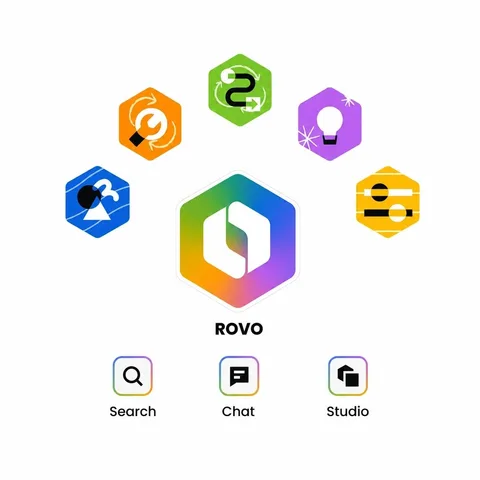
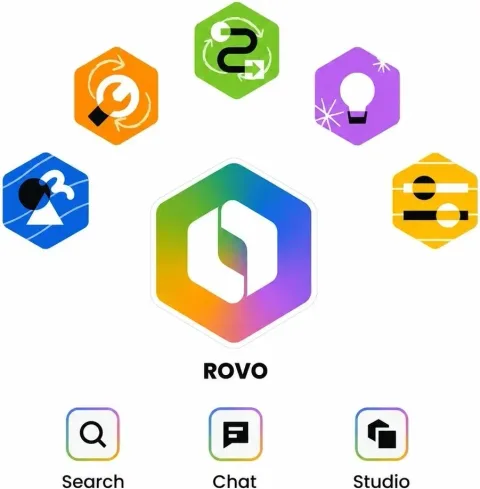
Batch of liveliness updates across six sections
- Hero: trim baked-in white border from image (901x918), tighten
  hero/events spacing to kill the big gap
- External-products section: 3 bullets -> icon feature cards + summary
- Agent/Automation (purple): white-framed tilted images, step chips
- Teamwork Graph: four core elements as tilted colorful pill chips
- Compare section: BEFORE/AFTER badges, grayscale vs highlighted
  cards, transition arrow between columns
- Course section: 5 floating sticky-note testimonial cards
  (placeholder copy, swap with real quotes later)

diff --git a/index.html b/index.html
@@ -95,7 +95,7 @@
       <p class="hero-sub"><strong>用 Rovo 賦能團隊，更智慧地工作</strong></p>
       <p class="hero-sub muted">提高工作效率與工作品質</p>
       <a class="btn btn--blue hero-cta" href="#contact">與我們聯絡</a>
-      <img class="hero-img" src="/images/hero-rovo-w1209.webp" srcset="/images/hero-rovo-w480.webp 480w, /images/hero-rovo-w960.webp 960w, /images/hero-rovo-w1209.webp 1209w" sizes="(max-width: 767px) 100vw, 620px" alt="Rovo Agents" width="641" height="641" fetchpriority="high" />
+      <img class="hero-img" src="/images/hero-rovo-w901.webp" srcset="/images/hero-rovo-w480.webp 480w, /images/hero-rovo-w901.webp 901w" sizes="(max-width: 767px) 100vw, 620px" alt="Rovo Agents" width="901" height="918" fetchpriority="high" />
     </div>
   </section>
 
@@ -320,15 +320,24 @@
     <div class="container">
       <h2 class="section-heading">Rovo 搜尋連接外部產品：統一介面存取多平台資訊</h2>
       <hr class="heading-rule" />
-      <div class="rich centered-copy">
-        <ul>
-          <li><strong>企業內部知識管理</strong>：統一檢索儲存於各平台的文件，減少時間浪費。</li>
-          <li><strong>多專案團隊合作</strong>：避免重複輸入與資訊遺失，確保跨部門協作效率。</li>
-          <li><strong>技術與客服支援</strong>：快速定位<strong>客戶查詢紀錄</strong>與<strong>技術文件</strong>，加快回應時間。</li>
-        </ul>
-        <p class="center">透過 <strong>Rovo 搜尋連接外部產品</strong>，企業與團隊能夠有效統合分散資訊，</p>
-        <p class="center">提升檢索效率與決策精準度，實現更智慧的知識管理與協作體驗！</p>
+      <div class="feature-cards rich">
+        <div class="feature-card">
+          <span class="card-icon card-icon--blue" aria-hidden="true">📚</span>
+          <h4>企業內部知識管理</h4>
+          <p>統一檢索儲存於各平台的文件，減少時間浪費。</p>
+        </div>
+        <div class="feature-card">
+          <span class="card-icon card-icon--green" aria-hidden="true">🤝</span>
+          <h4>多專案團隊合作</h4>
+          <p>避免重複輸入與資訊遺失，確保跨部門協作效率。</p>
+        </div>
+        <div class="feature-card">
+          <span class="card-icon card-icon--purple" aria-hidden="true">🎧</span>
+          <h4>技術與客服支援</h4>
+          <p>快速定位<strong>客戶查詢紀錄</strong>與<strong>技術文件</strong>，加快回應時間。</p>
+        </div>
       </div>
+      <p class="center connect-summary rich">透過 <strong>Rovo 搜尋連接外部產品</strong>，企業與團隊能夠有效統合分散資訊，<br />提升檢索效率與決策精準度，實現更智慧的知識管理與協作體驗！</p>
     </div>
   </section>
 
@@ -381,13 +390,14 @@
   </section>
 
   <!-- ===== Section 9: Automation / 專屬 Agent ===== -->
-  <section class="section section--purple slab">
+  <section class="section section--purple lively slab">
     <div class="container">
       <div class="media-row">
         <div class="media-row-media">
           <img src="/images/rovo-automation-w1112.webp" srcset="/images/rovo-automation-w480.webp 480w, /images/rovo-automation-w960.webp 960w, /images/rovo-automation-w1112.webp 1112w" sizes="(max-width: 767px) calc(100vw - 48px), 528px" alt="Rovo Automation 設定畫面" loading="lazy" />
         </div>
         <div class="media-row-copy rich">
+          <span class="step-chip" aria-hidden="true">01</span>
           <h4 class="content-heading">Rovo Agent 與 Automation 的結合應用</h4>
           <ul>
             <li><strong>資源管理自動化</strong>：優化人力與數據資源調度，確保項目順暢進行，減少手動操作錯誤。</li>
@@ -400,6 +410,7 @@
           <img src="/images/agent-knowledge-w1440.webp" srcset="/images/agent-knowledge-w480.webp 480w, /images/agent-knowledge-w960.webp 960w, /images/agent-knowledge-w1440.webp 1440w, /images/agent-knowledge-w1800.webp 1800w" sizes="(max-width: 767px) calc(100vw - 48px), 528px" alt="Rovo Agent 知識範圍設定" loading="lazy" />
         </div>
         <div class="media-row-copy rich">
+          <span class="step-chip" aria-hidden="true">02</span>
           <h4 class="content-heading">打造專屬的 Rovo Agent</h4>
           <ul>
             <li><strong>可控的知識範圍</strong>：AI 可只參考指定來源，確保資訊準確可靠。</li>
@@ -421,9 +432,14 @@
       <hr class="heading-rule" />
       <div class="rich centered-copy narrow">
         <h4 class="content-heading center">Teamwork Graphic</h4>
-        <ul>
-          <li>Teamwork Graph 是 Atlassian 雲端平台的核心數據層，它專注於四個核心元素：<strong>團隊</strong>、<strong>工作內容</strong>、<strong>目標</strong>與<strong>知識</strong> 並從每次互動中自動學習 ，以提供越來越相關的個人化結果。此方法強調團隊合作，而非僅是搜尋最佳化，展現其在促進協作與工作流程方面的能力。</li>
-        </ul>
+        <p class="center">Teamwork Graph 是 Atlassian 雲端平台的核心數據層，它專注於四個核心元素：</p>
+        <div class="tg-chips" aria-hidden="false">
+          <span class="tg-chip tg-chip--blue">👥 團隊</span>
+          <span class="tg-chip tg-chip--green">📋 工作內容</span>
+          <span class="tg-chip tg-chip--yellow">🎯 目標</span>
+          <span class="tg-chip tg-chip--purple">📚 知識</span>
+        </div>
+        <p class="center">並從每次互動中自動學習，以提供越來越相關的個人化結果。<br />此方法強調團隊合作，而非僅是搜尋最佳化，展現其在促進協作與工作流程方面的能力。</p>
         <p class="center"><a class="arrow-link" href="https://twgcli.com/" target="_blank" rel="noopener">探索 TWG CLI — 串起你工作的關係連結圖 <span aria-hidden="true">→</span></a></p>
       </div>
     </div>
@@ -435,12 +451,14 @@
       <h2 class="section-heading">Rovo 透過 Teamwork Graphic 數據層，能更了解您的團隊與目標</h2>
       <hr class="heading-rule" />
       <div class="grid-2 compare-grid">
-        <div class="compare">
+        <div class="compare compare--before">
+          <span class="ba-badge ba-badge--before">BEFORE</span>
           <h4 class="card-heading">一般生成式AI 並不了解您的團隊</h4>
           <img src="/images/1-w1440.webp" srcset="/images/1-w480.webp 480w, /images/1-w960.webp 960w, /images/1-w1440.webp 1440w, /images/1-w1800.webp 1800w" sizes="(max-width: 767px) calc(100vw - 48px), 528px" alt="一般 AI 工具回應流程" loading="lazy" />
           <p class="compare-caption">沒有 Teamwork Graphic 的 AI內容可能較為直線化<br />缺少對團隊合作結構理解能力。</p>
         </div>
-        <div class="compare">
+        <div class="compare compare--after">
+          <span class="ba-badge ba-badge--after">AFTER</span>
           <h4 class="card-heading">Teamwork Graphic了解您的團隊</h4>
           <img src="/images/2-w1440.webp" srcset="/images/2-w480.webp 480w, /images/2-w960.webp 960w, /images/2-w1440.webp 1440w, /images/2-w1800.webp 1800w" sizes="(max-width: 767px) calc(100vw - 48px), 528px" alt="Atlassian Intelligence 回應流程" loading="lazy" />
           <p class="compare-caption">Rovo 具備Teamwork Graphick的數據層，更理解您的團隊情況<br />回應可更偏向協作團隊工作的視角以及豐富的答案</p>
@@ -705,6 +723,31 @@
           <a class="btn btn--blue" href="https://leorepro.github.io/atlassian-rovo-course/" target="_blank" rel="noopener">瞭解更多</a>
           <a class="btn btn--outline" href="https://rovodev.tw/" target="_blank" rel="noopener">實戰課程系列</a>
         </div>
+      </div>
+    </div>
+    <div class="container quote-wall">
+      <h3 class="quote-heading">學員回饋</h3>
+      <div class="quote-cards">
+        <figure class="quote-card quote-card--blue">
+          <blockquote>上完課隔週就把 Rovo Agent 導入週報流程，原本要花一個下午整理的進度，現在十分鐘搞定。</blockquote>
+          <figcaption>王經理・產品部</figcaption>
+        </figure>
+        <figure class="quote-card quote-card--green">
+          <blockquote>講師示範的 Jira 自動化範例直接照搬就能用，搭配開發工具的效率提升真的有感。</blockquote>
+          <figcaption>林工程師・研發團隊</figcaption>
+        </figure>
+        <figure class="quote-card quote-card--yellow">
+          <blockquote>Teamwork Graph 的概念講得超清楚，現在寫提示詞會先想 Role、Job、Context，回覆準確很多。</blockquote>
+          <figcaption>陳 PM・專案管理</figcaption>
+        </figure>
+        <figure class="quote-card quote-card--purple">
+          <blockquote>把常見問題餵給 Rovo Agent 之後，第一線回覆速度快了一倍，客戶滿意度跟著提升。</blockquote>
+          <figcaption>張客服人員・客戶服務</figcaption>
+        </figure>
+        <figure class="quote-card quote-card--pink">
+          <blockquote>完全沒有技術背景也聽得懂，現在會議記錄跟公告草稿都先請 Rovo 幫我擬第一版。</blockquote>
+          <figcaption>李行政人員・總務行政</figcaption>
+        </figure>
       </div>
     </div>
   </section>

diff --git a/src/styles/main.css b/src/styles/main.css
@@ -245,7 +245,8 @@ img { max-width: 100%; height: auto; display: block; }
 }
 
 /* Hero（置中式） */
-.hero { padding: 72px 0 64px; }
+.hero { padding: 72px 0 0; }
+.events { padding-top: 48px; }
 .hero-center { text-align: center; }
 .tagline {
   font-family: var(--font-head);
@@ -371,6 +372,22 @@ img { max-width: 100%; height: auto; display: block; }
   margin: 0 0 14px;
 }
 .feature-card ul { margin: 0; }
+.feature-card p { margin: 0; }
+
+/* 卡片彩色圖示 chip */
+.card-icon {
+  display: flex;
+  align-items: center;
+  justify-content: center;
+  width: 54px; height: 54px;
+  border-radius: 14px;
+  font-size: 26px;
+  margin-bottom: 16px;
+}
+.card-icon--blue   { background: #e2edff; }
+.card-icon--green  { background: #e9f5d8; }
+.card-icon--purple { background: #f4e8fd; }
+.connect-summary { margin-top: 40px; font-size: var(--fs-lg); }
 
 /* 影片區（四段色帶） */
 .videos-band .media-row { margin-bottom: 64px; }
@@ -483,14 +500,79 @@ img { max-width: 100%; height: auto; display: block; }
 .carousel-thumbs button img { width: 100%; height: 100%; object-fit: cover; }
 .carousel-thumbs button.active { border-color: var(--blue); opacity: 1; }
 
+/* 活潑圖文列（白框傾斜，沿用影片區語彙） */
+.lively .media-row-media img {
+  border: 10px solid #fff;
+  border-radius: 16px;
+  box-shadow: 0 16px 36px rgba(0, 0, 0, 0.18);
+  transform: rotate(-1.4deg);
+  transition: transform .3s ease;
+}
+.lively .media-row.reverse .media-row-media img { transform: rotate(1.4deg); }
+.lively .media-row:hover .media-row-media img { transform: rotate(0deg); }
+.lively .content-heading { text-align: center; }
+.lively .step-chip { box-shadow: 0 6px 16px rgba(0, 0, 0, 0.22); }
+
 /* ============ Section 10：Teamwork Graph ============ */
 .teamwork { padding-top: 0; }
 .teamwork-banner img { width: 100%; }
 .teamwork .container { padding-top: 40px; }
 .content-heading.center { text-align: center; }
 
-/* ============ Section 11：對比 ============ */
+/* 四元素彩色膠囊章（Teamwork Graph 區） */
+.tg-chips {
+  display: flex;
+  flex-wrap: wrap;
+  justify-content: center;
+  gap: 14px;
+  margin: 24px 0;
+}
+.tg-chip {
+  display: inline-block;
+  padding: 10px 24px;
+  border-radius: 48px;
+  font-weight: 700;
+  color: var(--ink);
+  transform: rotate(-2deg);
+  transition: transform .2s ease;
+  box-shadow: 0 4px 12px rgba(0, 0, 0, 0.08);
+}
+.tg-chip:nth-child(even) { transform: rotate(2deg); }
+.tg-chip:hover { transform: rotate(0deg) scale(1.08); }
+.tg-chip--blue   { background: #dcebff; }
+.tg-chip--green  { background: #e4f3cf; }
+.tg-chip--yellow { background: #fdf0c2; }
+.tg-chip--purple { background: #f1e3fd; }
+
+/* ============ Section 11：對比（Before / After） ============ */
+.compare-grid { position: relative; }
+.compare-grid::after {
+  content: '→';
+  position: absolute;
+  top: 44%;
+  left: 50%;
+  transform: translate(-50%, -50%);
+  font-size: 44px;
+  font-weight: 800;
+  color: #fff;
+  text-shadow: 0 4px 12px rgba(0, 0, 0, 0.25);
+}
+.compare { text-align: center; }
+.ba-badge {
+  display: inline-block;
+  padding: 6px 20px;
+  border-radius: 48px;
+  font-family: var(--font-head);
+  font-size: var(--fs-sm);
+  font-weight: 800;
+  letter-spacing: 2px;
+  margin-bottom: 16px;
+}
+.ba-badge--before { background: rgba(0, 0, 0, 0.3); color: rgba(255, 255, 255, 0.85); }
+.ba-badge--after  { background: #fff; color: var(--blue); }
 .compare img { border-radius: 6px; background: #fff; }
+.compare--before img { filter: grayscale(.85); opacity: .92; }
+.compare--after img { box-shadow: 0 0 0 4px #fff, 0 16px 36px rgba(0, 0, 0, 0.25); }
 .compare-caption {
   text-align: center;
   color: #fff;
@@ -644,6 +726,66 @@ img { max-width: 100%; height: auto; display: block; }
 .course-desc { font-size: var(--fs-lg); color: var(--body); margin: 0 0 28px; }
 .course-actions { display: flex; flex-wrap: wrap; gap: 14px; }
 .course .media-row-media img { box-shadow: 0 12px 32px rgba(0, 0, 0, 0.12); }
+
+/* 學員回饋便利貼牆 */
+.quote-wall { margin-top: 72px; }
+.quote-heading {
+  font-family: var(--font-head);
+  font-size: var(--fs-h3);
+  font-weight: 700;
+  text-align: center;
+  color: var(--ink);
+  margin: 0 0 32px;
+}
+.quote-cards {
+  display: flex;
+  flex-wrap: wrap;
+  justify-content: center;
+  gap: 20px;
+}
+.quote-card {
+  flex: 1 1 190px;
+  max-width: 230px;
+  margin: 0;
+  padding: 22px 20px;
+  border-radius: 14px;
+  box-shadow: 0 8px 20px rgba(0, 0, 0, 0.10);
+  animation: doodle-float 5.5s ease-in-out infinite;
+  transition: transform .25s ease, box-shadow .25s ease;
+}
+.quote-card:nth-child(odd)  { rotate: -1.6deg; }
+.quote-card:nth-child(even) { rotate: 1.6deg; }
+.quote-card:nth-child(2) { animation-delay: .9s; }
+.quote-card:nth-child(3) { animation-delay: 1.8s; }
+.quote-card:nth-child(4) { animation-delay: 2.7s; }
+.quote-card:nth-child(5) { animation-delay: 3.6s; }
+.quote-card:hover {
+  rotate: 0deg;
+  transform: translateY(-6px) scale(1.03);
+  box-shadow: 0 16px 32px rgba(0, 0, 0, 0.16);
+  animation-play-state: paused;
+}
+.quote-card blockquote {
+  margin: 0 0 14px;
+  font-size: var(--fs-sm);
+  line-height: 1.65;
+  color: #2c2c2c;
+}
+.quote-card blockquote::before { content: '「'; }
+.quote-card blockquote::after  { content: '」'; }
+.quote-card figcaption {
+  font-size: var(--fs-sm);
+  font-weight: 700;
+  color: var(--ink);
+}
+.quote-card--blue   { background: #dcebff; }
+.quote-card--green  { background: #e4f3cf; }
+.quote-card--yellow { background: #fdf0c2; }
+.quote-card--purple { background: #f1e3fd; }
+.quote-card--pink   { background: #ffe3ec; }
+@media (prefers-reduced-motion: reduce) {
+  .quote-card { animation: none; }
+}
 
 /* ============ Section 16：聯絡表單 ============ */
 .contact-grid {
@@ -873,6 +1015,7 @@ img { max-width: 100%; height: auto; display: block; }
   .contact-map iframe { height: 240px; }
   .prompt-block { padding: 24px 20px; }
   .footer-grid { grid-template-columns: 1fr; gap: 32px; }
+  .compare-grid::after { content: '↓'; top: 50%; }
 
   .carousel-thumbs button { width: 64px; height: 42px; }
 }
